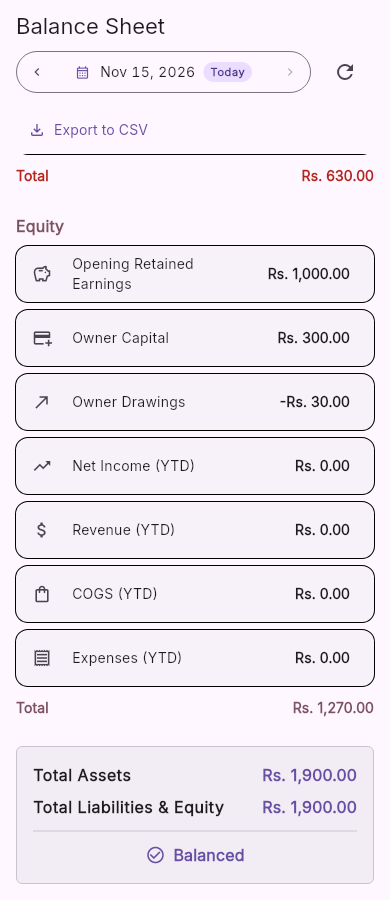
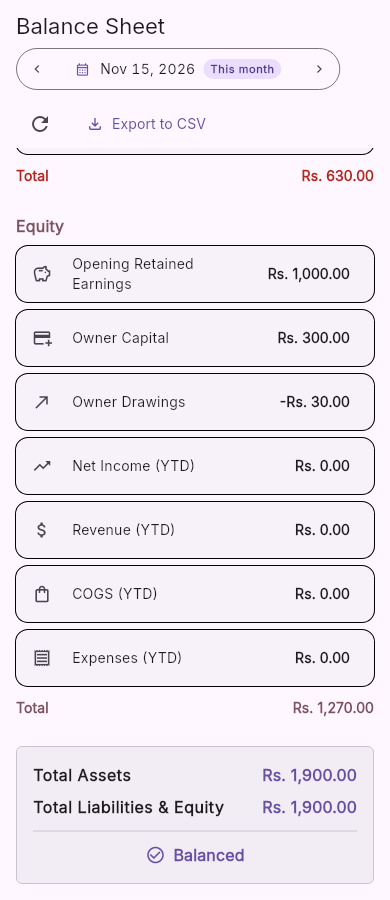
test(reports): pin audit capture date and refresh remediation artifacts
The accounting report regression tests used DateTime.now() for the salary
pay_period and left the balance sheet on the provider default (today), so
each run rewrote the tracked remediation artifacts under
audit/accounting-audit/remediation/ with the current date.

Pin both to a fixed audit date (Nov 15, 2026) and normalize the salary
dialog's now-derived payment-date label to the same date before saving.
Runs are now byte-stable run-to-run.

Regenerate the balance sheet captures so the tracked outputs match current
UI behavior (the toolbar chip reads "This month" for a pinned non-today
date under the current date-range picker) and stay stable thereafter. No
production code changed.

Tests: flutter test test/features/accounting_report_regressions_test.dart
(8/8 pass; byte-identical output across two consecutive runs).

diff --git a/test/features/accounting_report_regressions_test.dart b/test/features/accounting_report_regressions_test.dart
@@ -10,6 +10,7 @@ import 'package:dio/dio.dart';
 import 'package:flutter_test/flutter_test.dart';
 import 'package:intl/date_symbol_data_local.dart';
 import 'package:minierp_app/core/utils/csv_export.dart';
+import 'package:minierp_app/core/utils/date_utils.dart';
 import 'package:minierp_app/core/utils/formatters.dart';
 import 'package:minierp_app/data/models/report.dart';
 import 'package:minierp_app/features/reports/balance_sheet_report_screen.dart';
@@ -22,6 +23,13 @@ import 'package:minierp_app/features/employees/salary_pay_dialog.dart';
 
 import '../test_helpers.dart';
 
+
+// Fixed audit date. The committed artifacts under
+// audit/accounting-audit/remediation/ were produced with this toolbar/payment
+// date, so the tests must pin it instead of DateTime.now(). This keeps the
+// tracked screenshot/JSON artifacts byte-stable on every run.
+const String auditStableToolbarDate = 'Nov 15, 2026';
+final DateTime auditStableDate = DateTime(2026, 11, 15);
 
 // Audit-only input: independent balanced accounting equation, no database or writes.
 // Cash 1,000 + inventory 200 + AR 300 + other assets 400 = assets 1,900.
@@ -84,8 +92,8 @@ void main() {
     tester.view.physicalSize = const Size(1400, 1400);
     tester.view.devicePixelRatio = 1;
     addTearDown(tester.view.reset);
-    final now = DateTime.now();
-    final month = '${now.year}-${now.month.toString().padLeft(2, '0')}';
+    final month =
+        '${auditStableDate.year}-${auditStableDate.month.toString().padLeft(2, '0')}';
     const employee = Employee(
       id: 1,
       employeeCode: 'AUDIT',
@@ -123,6 +131,13 @@ void main() {
     final texts = tester
         .widgetList<Text>(find.byType(Text))
         .map((w) => w.data ?? w.textSpan?.toPlainText() ?? '')
+        // The dialog derives its payment-date label from DateTime.now(); pin it
+        // to the committed audit date so the saved artifact is date-stable.
+        .map(
+          (t) => t == Formatters.date(isoDate(DateTime.now()))
+              ? auditStableToolbarDate
+              : t,
+        )
         .toList();
     File(
       'audit/accounting-audit/remediation/flutter-salary-carryover-widget.json',
@@ -168,7 +183,12 @@ void main() {
             child: const Scaffold(body: BalanceSheetReportScreen()),
           ),
         ),
-        overrides: [balanceSheetProvider.overrideWith((ref) async => report)],
+        overrides: [
+          balanceSheetProvider.overrideWith((ref) async => report),
+          reportBalanceSheetAsOfDateProvider.overrideWith(
+            (ref) => auditStableDate,
+          ),
+        ],
       ),
     );
     await tester.pumpAndSettle();
@@ -211,6 +231,13 @@ void main() {
     expect(tester.takeException(), isNull);
     expect(find.text('Balanced'), findsOneWidget);
     expect(
+      find.text(auditStableToolbarDate),
+      findsOneWidget,
+      reason:
+          'The toolbar date must use the fixed audit date so the generated '
+          'artifact stays byte-stable across runs.',
+    );
+    expect(
       find.text(Formatters.currency(400)),
       findsOneWidget,
       reason:
@@ -225,8 +252,8 @@ void main() {
     tester.view.devicePixelRatio = 1;
     addTearDown(tester.view.reset);
     const employee = Employee(id: 7, employeeCode: 'COVERED', firstName: 'Covered', lastName: 'Salary', salary: 1000, isActive: true);
-    final now = DateTime.now();
-    final month = '${now.year}-${now.month.toString().padLeft(2, '0')}';
+    final month =
+        '${auditStableDate.year}-${auditStableDate.month.toString().padLeft(2, '0')}';
     final row = SalaryMonthSummary.fromJson({'pay_period': month, 'employee_salary': 1000, 'total_paid': 1000, 'remaining': 0, 'advance_carryover': 1000, 'status': 'paid'});
     Map<String, dynamic>? submitted;
     final dio = createFakeDio({'/employees/7/salary/pay': successEnvelope({'id': 99})});
@@ -296,10 +323,15 @@ void main() {
         await tester.pumpWidget(buildTestable(RepaintBoundary(key: key, child: Theme(
           data: ThemeData(brightness: dark ? Brightness.dark : Brightness.light, fontFamily: 'AuditFont'),
           child: const Scaffold(body: BalanceSheetReportScreen()),
-        )), overrides: [balanceSheetProvider.overrideWith((ref) async {
-          loads++;
-          return BalanceSheetReport.fromJson(balanceSheetFixture());
-        })]));
+        )), overrides: [
+          balanceSheetProvider.overrideWith((ref) async {
+            loads++;
+            return BalanceSheetReport.fromJson(balanceSheetFixture());
+          }),
+          reportBalanceSheetAsOfDateProvider.overrideWith(
+            (ref) => auditStableDate,
+          ),
+        ]));
         await tester.pumpAndSettle();
         await tester.tap(find.byIcon(Icons.refresh));
         await tester.pumpAndSettle();
